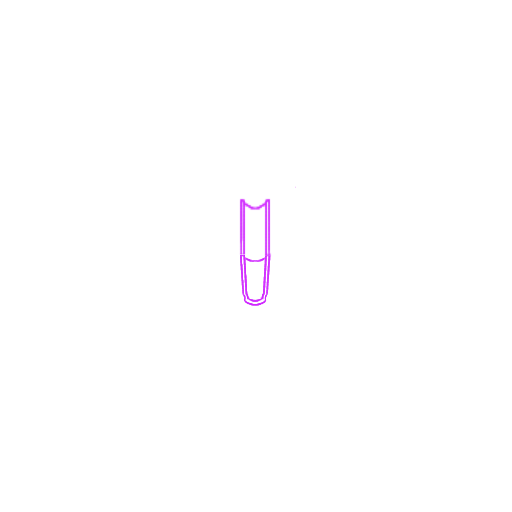
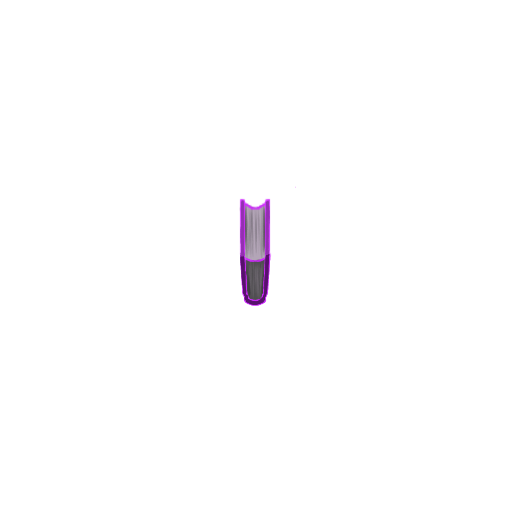
ㅁㄴㅇㄹ

Changed region(s): [[0.4688, 0.375, 0.5312, 0.5938]]

diff --git a/PlayerCards/Lucifer/lucifer.py b/PlayerCards/Lucifer/lucifer.py
@@ -133,7 +133,7 @@ class DoomsdayProphecy(Buff):
 
 
 doomsday=[
-    pygame.transform.scale(pygame.image.load(f"./PlayerCards/Lucifer/doomsday/{i}.png"), (600, 600)) for i in range(13)
+    pygame.transform.scale(pygame.image.load(f"./PlayerCards/Lucifer/doomsday/{i}.png"), (600, 600)) for i in range(15)
 ]
 
 class CommingApocalypse(SpecialSkill):
@@ -164,8 +164,14 @@ class CommingApocalypse(SpecialSkill):
         for target in targets:
             try:
                 x, y=target.pos_center
-                for i in range(13):
-                    motion_draw.add_motion(lambda scr, ii, xx, yy:scr.blit(doomsday[ii], (xx-300, yy-250)), i, (i, x, y))
+                for i in range(7):
+                    motion_draw.add_motion(lambda scr, ii, xx, yy:scr.blit(doomsday[0], (xx-300, yy-250-20*1.5**(6-ii))), i, (i, x, y))
+                for i in range(15):
+                    motion_draw.add_motion(lambda scr, ii, xx, yy:scr.blit(doomsday[ii], (xx-300, yy-250)), i+7, (i, x, y))
+                for i in range(8):
+                    tmp_img_14=pygame.transform.scale(doomsday[14], (600, 600))
+                    tmp_img_14.set_alpha(255-i*35)
+                    motion_draw.add_motion(lambda scr, img, xx, yy:scr.blit(img, (xx-300, yy-250)), i+22, (tmp_img_14, x, y))
                 DoomsdayProphecy(target, 3, target.game_board)
             except:
                 pass
